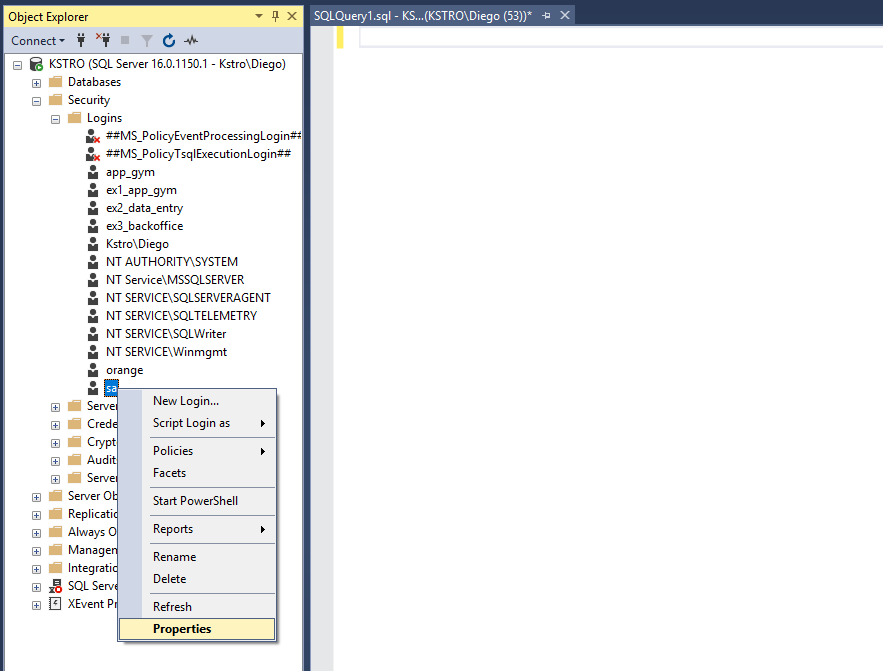
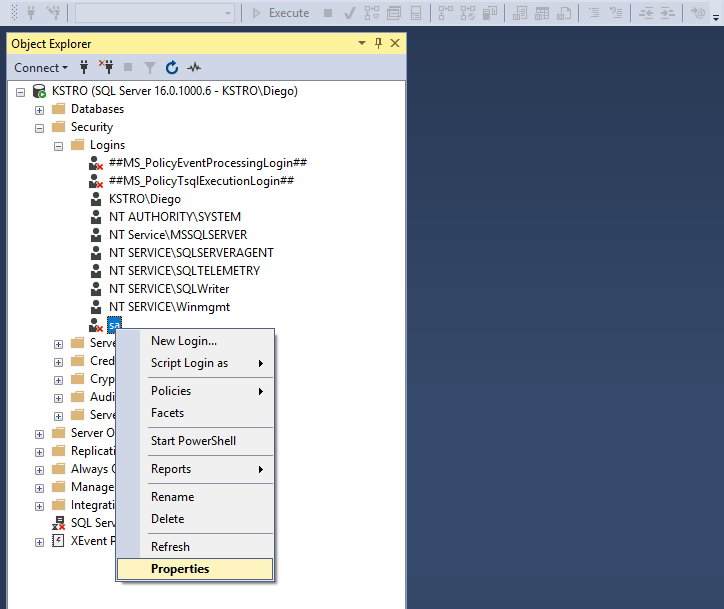
fix:lab 2

diff --git a/index.html b/index.html
@@ -1,3 +1,4 @@
+
 <!DOCTYPE html>
 
 <html>
@@ -73,7 +74,7 @@
           riesgos de errores y fortalece la seguridad.
         </p>
 
-        <p>Crearemos dos perfiles bien diferenciados:</p>
+        <p>Crearemos dos perfiles con funciones bien diferenciadas:</p>
         <ul>
           <li>
             El usuario <strong>orange</strong> (perfil analítico): podrá
@@ -150,6 +151,30 @@
     <img src="cambiar_clave.png" alt="cambiar clave sa desde propiedades" style="max-width: 100%; border: 1px solid #ccc; border-radius: 4px;">
   </ol>
 
+  <h3>Opcional: Cómo activar el inicio de sesion por medio de <strong>SQL Server Authentication  </strong> si está deshabilitado</h3>
+  <p>
+    Si al intentar iniciar sesión con el usuario "sa" da error es posible que al instalar SQL Server se haya dejado la autenticación de Windows únicamente. 
+    A continuación se detallan los pasos para activarlo desde <strong>SQL Server Management Studio</strong>:
+  </p>
+
+  <ol>
+    <li>Conéctate a la instancia de SQL Server usando <strong>Windows Authentication</strong> con un usuario administrador.</li>
+    <li>Haz clic derecho sobre el servidor en el <strong>Object Explorer</strong> → selecciona <strong>Properties</strong>.</li>
+    <img src="menu_activar_autenticacion.png" alt="Propiedades del servidor en SSMS" style="max-width: 100%; border: 1px solid #ccc; border-radius: 4px;">
+
+    <li>En la ventana de propiedades, ve a la pestaña <strong>Security</strong> y selecciona la opción:
+      <ul>
+        <li><strong>SQL Server and Windows Authentication mode</strong></li>
+      </ul>
+      Esto habilita el modo mixto (Windows + SQL Server logins).
+    </li>
+    <img src="activar_sqlserverandwindows.png" alt="Habilitar autenticación mixta en SQL Server" style="max-width: 100%; border: 1px solid #ccc; border-radius: 4px;">
+
+    <li>Haz clic en <strong>OK</strong> para guardar los cambios.</li>
+    <li><strong>Importante:</strong> Reinicia el servicio de SQL Server desde el <strong>Servicios de Windows</strong> para aplicar la nueva configuración.</li>
+    <img src="reiniciar_servicio.png" alt="Reiniciar servicio SQL Server" style="max-width: 100%; border: 1px solid #ccc; border-radius: 4px;">
+  </ol>
+
   <!-- 🔹 Apartado Opcional 2: Cambiar nombre del login sa -->
   <h3>Opcional: Cambiar el nombre del login <strong>sa</strong> por seguridad</h3>
   <p>
@@ -157,8 +182,8 @@
     y reducir riesgos de ataques por diccionario. Esto no afecta su funcionalidad administrativa, pero es una excelente práctica.
   </p>
 
-  <p>Primero debes iniciar sesion con el usuario "sa" que acabas de activar posteriormente ejecuta el siguiente comando puedes agregar el nombre de usuario 
-    que desees en lugar de "admin_seguro":
+  <p>Ejecuta el siguiente comando en la hoja de consultas puedes colocar el nombre de usuario 
+    que desees en lugar de "admin_seguro" solo es importante que lo recuerdes:
   </p>
 
   <div class="code-container">
@@ -166,6 +191,9 @@
     <pre><code class="language-sql">
       -- Cambiar nombre del login sa a admin_seguro
       ALTER LOGIN sa WITH NAME = admin_seguro;
+
+      -- Cambiando la clave del admin
+      ALTER LOGIN admin_seguro WITH PASSWORD = 'ClaveSegura$02';
     </code></pre>
   </div>
 
@@ -189,7 +217,7 @@
   <p>Ahora que ya tenemos activado el usuario administrador, iniciamos sesión utilizando el modo de autenticación <strong>SQL Server Authentication</strong> y colocamos las credenciales que asignamos anteriormente:</p>
   <img src="login_sql.png" alt="login como sa" style="max-width: 100%; border: 1px solid #ccc; border-radius: 4px;">
 
-  <h3>Obligatorio: Crear la base de datos <strong>DB_Gimnasio</strong> con sus tablas e inserciones</h3>
+  <h3>Obligatorio: Crear la base de datos <strong>DB_Gimnasio</strong> con sus tablas e inserciones para continuar con la practica y posteriormente realizar los ejercicios guiados.</h3>
   <div class="code-container">
     <button class="copy-btn" onclick="copyCode(this)">Copiar</button>
     <pre><code class="language-sql">
